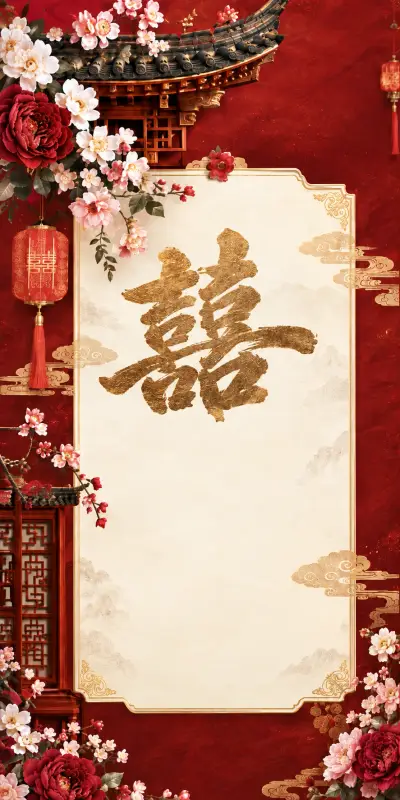
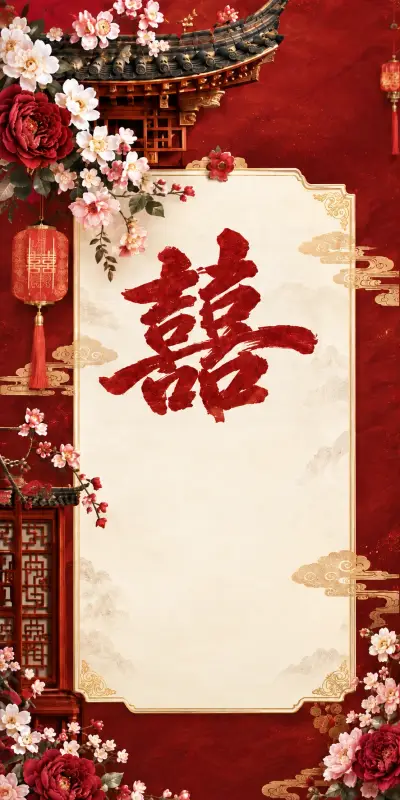
fix(theme): 调整中式双喜颜色与印章居中
加载页中央双喜改为参考图的深红色，同步更新内嵌首帧预览。
清除迎宾页印章继承的标题字距，使双喜在边框内居中。
构建及 9 项中式主题检查通过，已核对三种手机宽度下的印章居中位置。

Changed region(s): [[0.24, 0.2812, 0.81, 0.5312], [0.24, 0.2812, 0.27, 0.3438], [0.3, 0.2812, 0.33, 0.3125]]

diff --git a/src/themes/chinese.css b/src/themes/chinese.css
@@ -61,7 +61,7 @@
   letter-spacing: 0.16em;
 }
 .chinese-cover-title p { font: 8px/1.8 'Cinzel', serif; letter-spacing: 0.24em; margin-top: 3px; }
-.chinese-cover-title > span { display: inline-grid; place-items: center; font: 15px/1 'Noto Serif SC', serif; width: 21px; height: 23px; border: 1px solid #ae853e; margin-top: 7px; border-radius: 3px; }
+.chinese-cover-title > span { display: inline-grid; place-items: center; font: 15px/1 'Noto Serif SC', serif; letter-spacing: 0; width: 21px; height: 23px; border: 1px solid #ae853e; margin-top: 7px; border-radius: 3px; }
 .chinese-cover-blessing { position: absolute; z-index: 4; top: 19%; right: 7%; writing-mode: vertical-rl; font-size: 11px; letter-spacing: 0.18em; color: #7c201a; }
 
 :root[data-theme='chinese'] .p2-header-pediment { top: 17.5%; }
